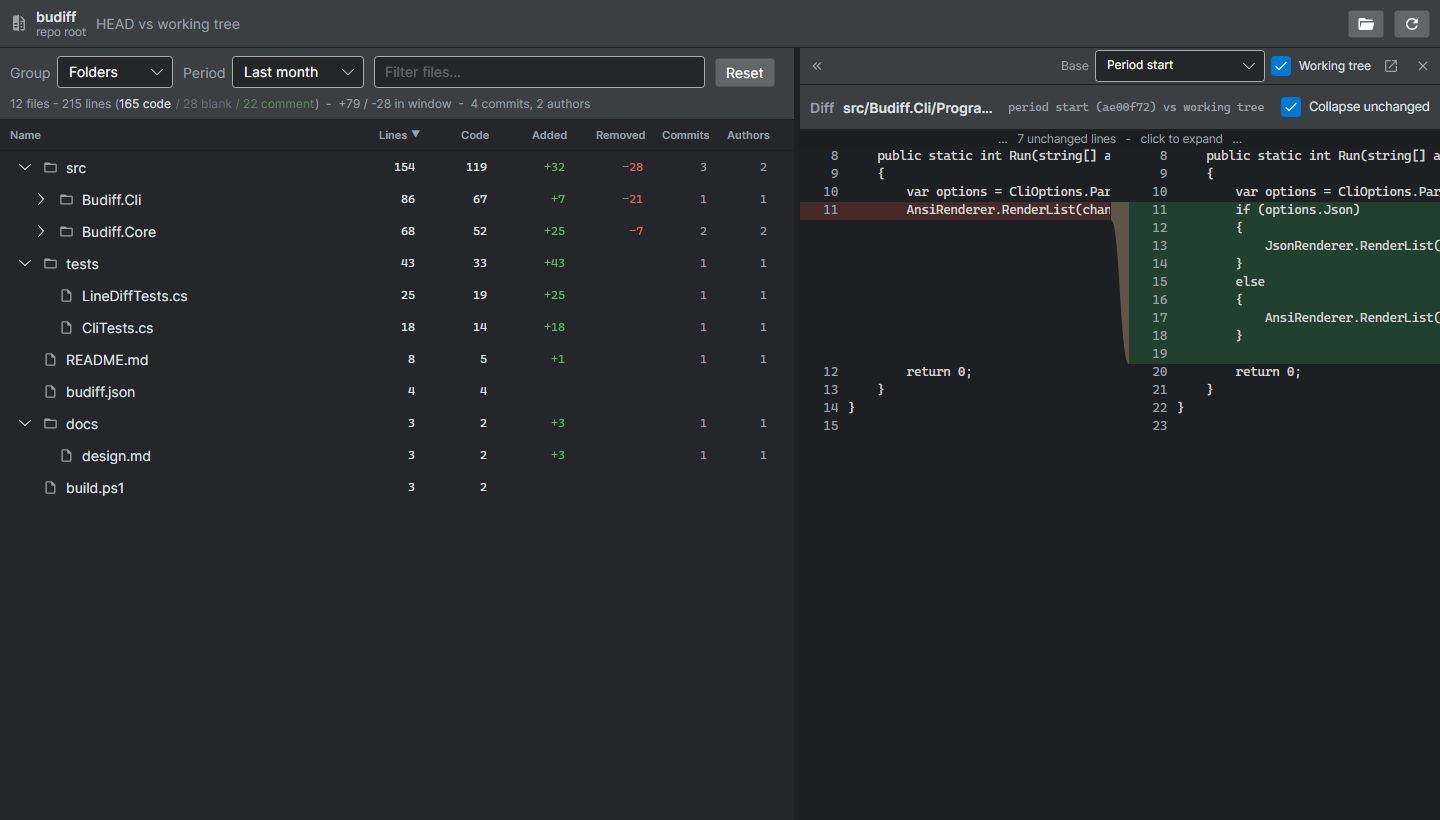
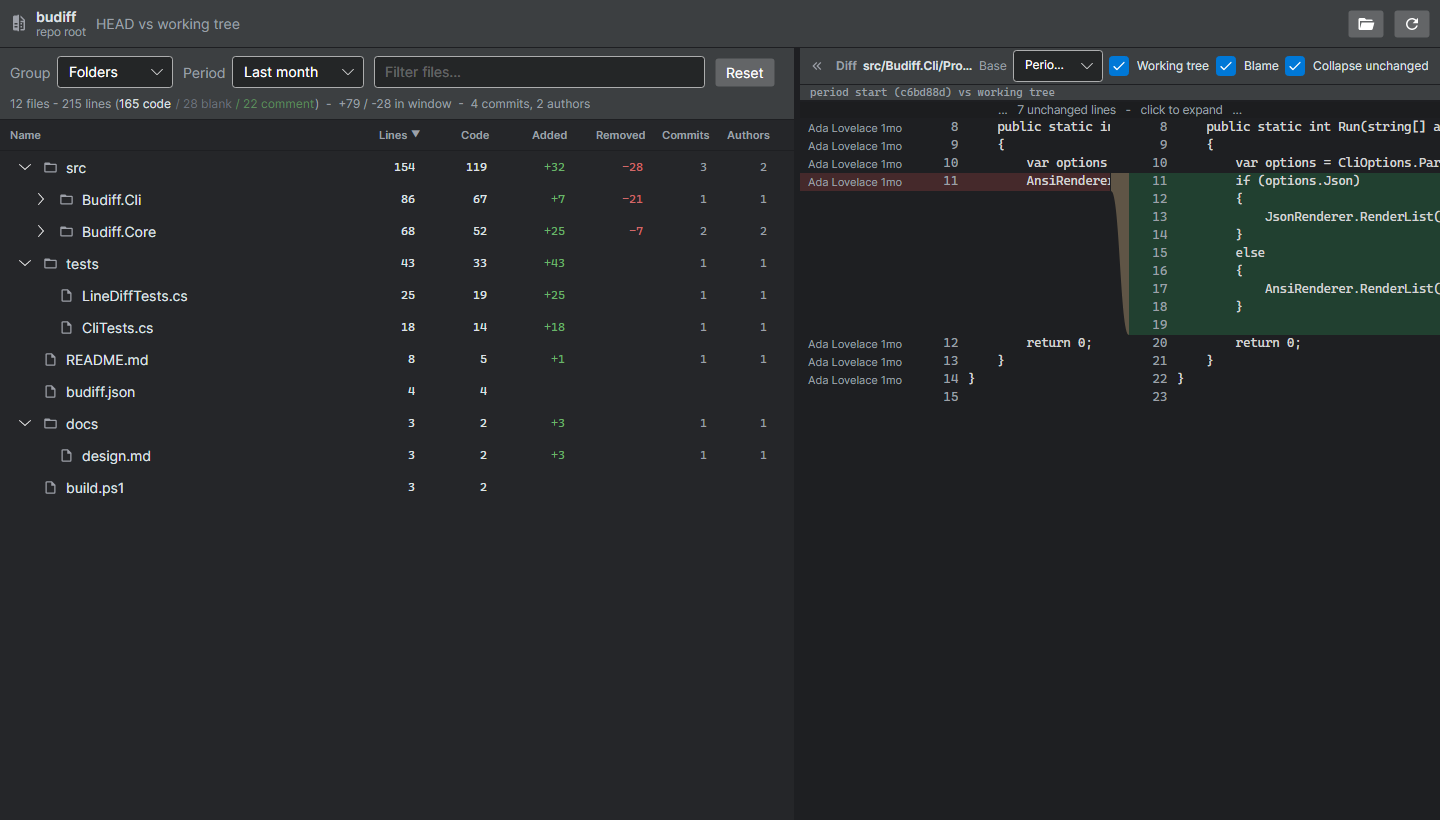
Diff: git blame in the left gutter (#46)
Rider/GitLens-style blame for the diff's BASE side - the left side is
what blame describes; working-tree lines on the right have no commit.

- GitRepositoryReader.LoadBlame (LibGit2Sharp Blame, StartingAt the
  resolved base commit) -> per-line short sha / author / date / message;
  empty when the base is not a commit (empty tree) or the file is
  untracked there.
- Loaded off-thread after the diff with a generation guard, so rows
  never wait on blame and a stale result cannot land on another file.
- Budiff.Avalonia stays git-free: the app pushes pre-formatted
  BlameEntry lines ("author age" label + tooltip fields) via
  DiffViewModel.SetBlame; rows pick them up by OLD line number and
  survive collapse/expand rebuilds.
- Gutter column next to the old line numbers, muted "author age";
  hovering shows a styled tooltip: short sha, author, date, message.
- Default ON with a "Blame" checkbox (docked header + DiffView's
  built-in header). Per Victor's refinement, the column also hides
  automatically while the pane is under ~half the window's width
  (0.42, so the default 640/1440 split still shows it) and returns
  when the pane grows - the toggle preference is preserved.

README screenshots refreshed (blame + the #47 compact header).

Closes #46.

Changed region(s): [[0.5312, 0.061, 1.0, 0.5183], [0.5625, 0.3963, 0.6875, 0.5183], [0.7188, 0.3963, 0.75, 0.4268]]

diff --git a/src/Budiff.App/MainWindowViewModel.cs b/src/Budiff.App/MainWindowViewModel.cs
@@ -26,6 +26,7 @@ public sealed partial class MainWindowViewModel : ObservableObject
     private bool _gitRoot;
     private GitRepositoryScope? _scope;
     private ChangedFile? _openDiffFile;
+    private int _blameGen;
 
     // Sentinel base option: resolves to the same boundary commit the windowed
     // churn diffs from, so the drill-in shows what the Added/Removed columns
@@ -140,6 +141,51 @@ public sealed partial class MainWindowViewModel : ObservableObject
         var target = CurrentTarget();
         Diff.Subtitle = DescribeTarget(target);
         Diff.BeginLoad(() => GitRepositoryReader.LoadDiff(scope, file, target));
+        BeginLoadBlame(scope, file, target);
+    }
+
+    // Blame describes the diff's BASE side; loaded off-thread after the diff so
+    // the rows never wait on it. The generation guard drops a stale result when
+    // the user has already moved to another file or base.
+    private void BeginLoadBlame(GitRepositoryScope scope, ChangedFile file, DiffTarget target)
+    {
+        var gen = ++_blameGen;
+        Diff.SetBlame(null);
+        _ = Task.Run(() =>
+        {
+            var blame = GitRepositoryReader.LoadBlame(scope, file.OldPath ?? file.Path, target.BaseRef);
+            var entries = new BlameEntry?[blame.Count];
+            for (var i = 0; i < blame.Count; i++)
+            {
+                if (blame[i] is { } line)
+                {
+                    entries[i] = new BlameEntry(
+                        $"{line.Author} {Age(line.When)}",
+                        line.ShortSha,
+                        line.Author,
+                        line.When.ToLocalTime().ToString("yyyy-MM-dd HH:mm"),
+                        line.Message);
+                }
+            }
+
+            global::Avalonia.Threading.Dispatcher.UIThread.Post(() =>
+            {
+                if (gen == _blameGen)
+                {
+                    Diff.SetBlame(entries);
+                }
+            });
+        });
+    }
+
+    private static string Age(DateTimeOffset when)
+    {
+        var span = DateTimeOffset.Now - when;
+        return span.TotalDays >= 365 ? $"{(int)(span.TotalDays / 365)}y"
+            : span.TotalDays >= 30 ? $"{(int)(span.TotalDays / 30)}mo"
+            : span.TotalDays >= 1 ? $"{(int)span.TotalDays}d"
+            : span.TotalHours >= 1 ? $"{(int)span.TotalHours}h"
+            : "now";
     }
 
     [RelayCommand]
@@ -317,6 +363,7 @@ public sealed partial class MainWindowViewModel : ObservableObject
         _openDiffFile = file;
         IsDiffOpen = true;
         Diff.BeginLoad(() => GitRepositoryReader.LoadDiff(_scope, file, target));
+        BeginLoadBlame(_scope, file, target);
     }
 
     private Task OpenAnalysisFileAsync(string fullPath, string relativePath)
@@ -335,6 +382,7 @@ public sealed partial class MainWindowViewModel : ObservableObject
         _openDiffFile = file;
         IsDiffOpen = true;
         Diff.BeginLoad(() => GitRepositoryReader.LoadDiff(_scope, file, target));
+        BeginLoadBlame(_scope, file, target);
         return Task.CompletedTask;
     }
 

diff --git a/tests/Budiff.Cli.Tests/GitBlameTests.cs b/tests/Budiff.Cli.Tests/GitBlameTests.cs
@@ -1,0 +1,70 @@
+using System;
+using System.IO;
+using Budiff.Git;
+using LibGit2Sharp;
+using Xunit;
+
+namespace Budiff.Cli.Tests;
+
+public sealed class GitBlameTests : IDisposable
+{
+    private readonly string _root = Directory.CreateTempSubdirectory("budiff-blame-").FullName;
+
+    [Fact]
+    public void LoadBlame_MapsLinesToTheirLastCommit()
+    {
+        Repository.Init(_root);
+        using var repo = new Repository(_root);
+        CommitFile(repo, "a.txt", "one\ntwo\nthree\n", "Ada Lovelace", "add three lines", daysAgo: 10);
+        CommitFile(repo, "a.txt", "one\ntwo CHANGED\nthree\n", "Grace Hopper", "change line two", daysAgo: 2);
+
+        var scope = GitRepositoryReader.Open(_root, gitRoot: true);
+        var blame = GitRepositoryReader.LoadBlame(scope, "a.txt", "HEAD");
+
+        Assert.Equal(3, blame.Count);
+        Assert.Equal("Ada Lovelace", blame[0]!.Author);
+        Assert.Equal("Grace Hopper", blame[1]!.Author);
+        Assert.Equal("change line two", blame[1]!.Message);
+        Assert.Equal("Ada Lovelace", blame[2]!.Author);
+        Assert.Equal(7, blame[1]!.ShortSha.Length);
+    }
+
+    [Fact]
+    public void LoadBlame_EmptyForNonCommitBase()
+    {
+        Repository.Init(_root);
+        using var repo = new Repository(_root);
+        CommitFile(repo, "a.txt", "one\n", "Ada Lovelace", "add", daysAgo: 1);
+
+        var scope = GitRepositoryReader.Open(_root, gitRoot: true);
+
+        // The empty tree (a whole-history window's base) is not a commit.
+        Assert.Empty(GitRepositoryReader.LoadBlame(scope, "a.txt", GitHistory.EmptyTreeSha));
+        Assert.Empty(GitRepositoryReader.LoadBlame(scope, "missing.txt", "HEAD"));
+    }
+
+    private void CommitFile(Repository repo, string name, string content, string author, string message, int daysAgo)
+    {
+        File.WriteAllText(Path.Combine(_root, name), content);
+        Commands.Stage(repo, name);
+        var signature = new Signature(author, "test@example.com", DateTimeOffset.UtcNow.AddDays(-daysAgo));
+        repo.Commit(message, signature, signature);
+    }
+
+    public void Dispose()
+    {
+        try
+        {
+            foreach (var file in Directory.EnumerateFiles(_root, "*", SearchOption.AllDirectories))
+            {
+                File.SetAttributes(file, FileAttributes.Normal);
+            }
+
+            Directory.Delete(_root, recursive: true);
+        }
+        catch
+        {
+            // best effort - temp cleanup only
+        }
+    }
+}

diff --git a/src/Budiff.Avalonia/DiffViewModel.cs b/src/Budiff.Avalonia/DiffViewModel.cs
@@ -25,6 +25,7 @@ public sealed partial class DiffViewModel : ObservableObject
     private IBrush _removedBackground = Brush("#33E05252");
     private IBrush _defaultSyntaxBrush = Brush("#D4D4D4");
     private bool _collapseUnchanged = true;
+    private IReadOnlyList<BlameEntry?>? _blameLines;
     private int _tokenizeGen;
     private int _loadGen;
     private DispatcherTimer? _loadingTimer;
@@ -57,6 +58,20 @@ public sealed partial class DiffViewModel : ObservableObject
 
     [ObservableProperty]
     private bool _isHighlighting;
+
+    // Blame gutter: ShowBlame is the user's toggle; BlameCramped is set by the
+    // view when the pane is under half the window's width. The column shows
+    // only when both agree - a cramped pane hides blame even if toggled on,
+    // and it comes back when the pane grows again.
+    [ObservableProperty]
+    [NotifyPropertyChangedFor(nameof(IsBlameVisible))]
+    private bool _showBlame = true;
+
+    [ObservableProperty]
+    [NotifyPropertyChangedFor(nameof(IsBlameVisible))]
+    private bool _blameCramped;
+
+    public bool IsBlameVisible => ShowBlame && !BlameCramped;
 
     [ObservableProperty]
     private bool _isPlaceholder;
@@ -139,11 +154,26 @@ public sealed partial class DiffViewModel : ObservableObject
         });
     }
 
+    // Blame arrives asynchronously (indexed by OLD-side line, 1-based line n at
+    // index n-1); null clears it, e.g. when a new diff starts loading.
+    public void SetBlame(IReadOnlyList<BlameEntry?>? lines)
+    {
+        _blameLines = lines;
+        foreach (var vm in Rows)
+        {
+            vm.Blame = BlameFor(vm.Source?.OldNo);
+        }
+    }
+
+    private BlameEntry? BlameFor(int? oldNo)
+        => _blameLines is { } blame && oldNo is { } n && n >= 1 && n <= blame.Count ? blame[n - 1] : null;
+
     public void SetPlaceholder(string text)
     {
         _tokenizeGen++;
         IsHighlighting = false;
         _all = Array.Empty<DiffRow>();
+        _blameLines = null;
         _oldRuns = Array.Empty<DiffRun[]>();
         _newRuns = Array.Empty<DiffRun[]>();
         _expandedGaps.Clear();
@@ -469,6 +499,7 @@ public sealed partial class DiffViewModel : ObservableObject
             NewText = row.NewText,
             OldRuns = RunsFor(_oldRuns, row.OldNo),
             NewRuns = RunsFor(_newRuns, row.NewNo),
+            Blame = BlameFor(row.OldNo),
             Kind = row.Kind,
             OldBackground = oldBg,
             NewBackground = newBg,

diff --git a/src/Budiff.Shared/Git/GitRepositoryReader.cs b/src/Budiff.Shared/Git/GitRepositoryReader.cs
@@ -130,6 +130,51 @@ public static class GitRepositoryReader
         }, new ChangeSet(scope, target, Array.Empty<ChangedFile>()));
     }
 
+    // Blame for the BASE side of a diff (the left side is what blame describes;
+    // working-tree lines on the right have no commit yet). Indexed by 0-based
+    // line; entries the blame does not cover stay null. Empty when the base ref
+    // is not a commit (e.g. the empty tree) or the file is not tracked there.
+    public static IReadOnlyList<BlameLineInfo?> LoadBlame(GitRepositoryScope scope, string path, string baseRef)
+    {
+        return WithRepo<IReadOnlyList<BlameLineInfo?>>(scope.RepositoryRoot, repo =>
+        {
+            var commit = ResolveCommit(repo, baseRef);
+            if (commit is null)
+            {
+                return Array.Empty<BlameLineInfo?>();
+            }
+
+            var lines = new List<BlameLineInfo?>();
+            foreach (var hunk in repo.Blame(path.Replace('\\', '/'), new BlameOptions { StartingAt = commit }))
+            {
+                var start = hunk.FinalStartLineNumber;
+                var end = start + hunk.LineCount;
+                while (lines.Count < end)
+                {
+                    lines.Add(null);
+                }
+
+                var c = hunk.FinalCommit;
+                if (c is null)
+                {
+                    continue;
+                }
+
+                var info = new BlameLineInfo(
+                    c.Sha.Length >= 7 ? c.Sha[..7] : c.Sha,
+                    c.Author?.Name ?? string.Empty,
+                    c.Author?.When ?? default,
+                    c.MessageShort ?? string.Empty);
+                for (var i = start; i < end; i++)
+                {
+                    lines[i] = info;
+                }
+            }
+
+            return lines;
+        }, Array.Empty<BlameLineInfo?>());
+    }
+
     public static DiffResult LoadDiff(GitRepositoryScope scope, ChangedFile file, DiffTarget target)
     {
         return WithRepo(scope.RepositoryRoot, repo =>

diff --git a/tests/Budiff.Avalonia.Tests/DiffBlameTests.cs b/tests/Budiff.Avalonia.Tests/DiffBlameTests.cs
@@ -1,0 +1,48 @@
+using System.Linq;
+using Budiff;
+using Xunit;
+
+namespace Budiff.Avalonia.Tests;
+
+public sealed class DiffBlameTests
+{
+    [Fact]
+    public void SetBlame_MapsOldLineNumbersToRows_AndClears()
+    {
+        var model = new DiffViewModel();
+        model.SetDiff(LineDiff.Compute("one\ntwo\nthree\n", "one\ntwo CHANGED\nthree\n"));
+
+        var ada = new BlameEntry("Ada 10d", "abc1234", "Ada", "2026-06-22 10:00", "add");
+        var grace = new BlameEntry("Grace 2d", "def5678", "Grace", "2026-06-30 10:00", "change");
+        model.SetBlame(new[] { ada, grace, ada });
+
+        var byOldNo = model.Rows.Where(r => r.OldNo is not null).ToDictionary(r => r.OldNo!);
+        Assert.Equal("Ada", byOldNo["1"].Blame!.Author);
+        Assert.Equal("Grace", byOldNo["2"].Blame!.Author);
+        Assert.Equal("Ada", byOldNo["3"].Blame!.Author);
+
+        // A collapse/expand rebuild keeps blame (Content() reads the stored lines).
+        model.CollapseUnchanged = false;
+        Assert.Equal("Grace", model.Rows.Where(r => r.OldNo == "2").Single().Blame!.Author);
+
+        model.SetBlame(null);
+        Assert.All(model.Rows, r => Assert.Null(r.Blame));
+    }
+
+    [Fact]
+    public void IsBlameVisible_RequiresToggleAndRoom()
+    {
+        var model = new DiffViewModel();
+        Assert.True(model.IsBlameVisible);
+
+        // A cramped pane hides blame even while toggled on...
+        model.BlameCramped = true;
+        Assert.False(model.IsBlameVisible);
+
+        // ...and the toggle still wins when there is room again.
+        model.BlameCramped = false;
+        Assert.True(model.IsBlameVisible);
+        model.ShowBlame = false;
+        Assert.False(model.IsBlameVisible);
+    }
+}

diff --git a/src/Budiff.Avalonia/DiffView.axaml.cs b/src/Budiff.Avalonia/DiffView.axaml.cs
@@ -50,7 +50,28 @@ public partial class DiffView : UserControl
     public DiffView()
     {
         InitializeComponent();
-        DataContextChanged += (_, _) => ApplyThemeToViewModel();
+        DataContextChanged += (_, _) =>
+        {
+            ApplyThemeToViewModel();
+            UpdateBlameCramped();
+        };
+        SizeChanged += (_, _) => UpdateBlameCramped();
+    }
+
+    // Blame needs real estate: it hides while the pane is under half the
+    // window's width (regardless of the toggle) and returns when it grows.
+    private void UpdateBlameCramped()
+    {
+        if (DataContext is not DiffViewModel model)
+        {
+            return;
+        }
+
+        // 0.42, not exactly 0.5: the default docked split gives the diff a hair
+        // under half the window (640/1440) and should still count as "half the
+        // screen" - only a deliberately shrunken pane hides blame.
+        var windowWidth = (VisualRoot as Window)?.ClientSize.Width ?? 0;
+        model.BlameCramped = windowWidth > 0 && Bounds.Width < windowWidth * 0.42;
     }
 
     public IBrush AddedLineBackground

diff --git a/src/Budiff.Shared/Git/GitModels.cs b/src/Budiff.Shared/Git/GitModels.cs
@@ -18,6 +18,9 @@ public sealed record DiffTarget(string BaseRef, string? HeadRef, bool HeadIsWork
 
 public sealed record GitReferenceOption(string Id, string Display, bool IsWorkingTree = false);
 
+// One blamed line: the commit that last touched it on the blamed revision.
+public sealed record BlameLineInfo(string ShortSha, string Author, System.DateTimeOffset When, string Message);
+
 public sealed record ChangedFile(
     string Path,
     string? OldPath,

diff --git a/src/Budiff.Avalonia/DiffRowVm.cs b/src/Budiff.Avalonia/DiffRowVm.cs
@@ -29,6 +29,10 @@ public sealed partial class DiffRowVm : ObservableObject
     [ObservableProperty]
     private IReadOnlyList<DiffRun>? _newRuns;
 
+    // Blame for the OLD side's line; arrives asynchronously after the diff.
+    [ObservableProperty]
+    private BlameEntry? _blame;
+
     public DiffKind Kind { get; init; }
 
     public IBrush OldBackground { get; init; } = Brushes.Transparent;

diff --git a/src/Budiff.Avalonia/BlameEntry.cs b/src/Budiff.Avalonia/BlameEntry.cs
@@ -1,0 +1,6 @@
+namespace Budiff.Avalonia;
+
+// One line's blame, pre-formatted by the host (this library stays git-free).
+// Label is the compact gutter text ("author age"); the rest feeds the hover
+// tooltip with the commit's details.
+public sealed record BlameEntry(string Label, string Sha, string Author, string Date, string Message);
